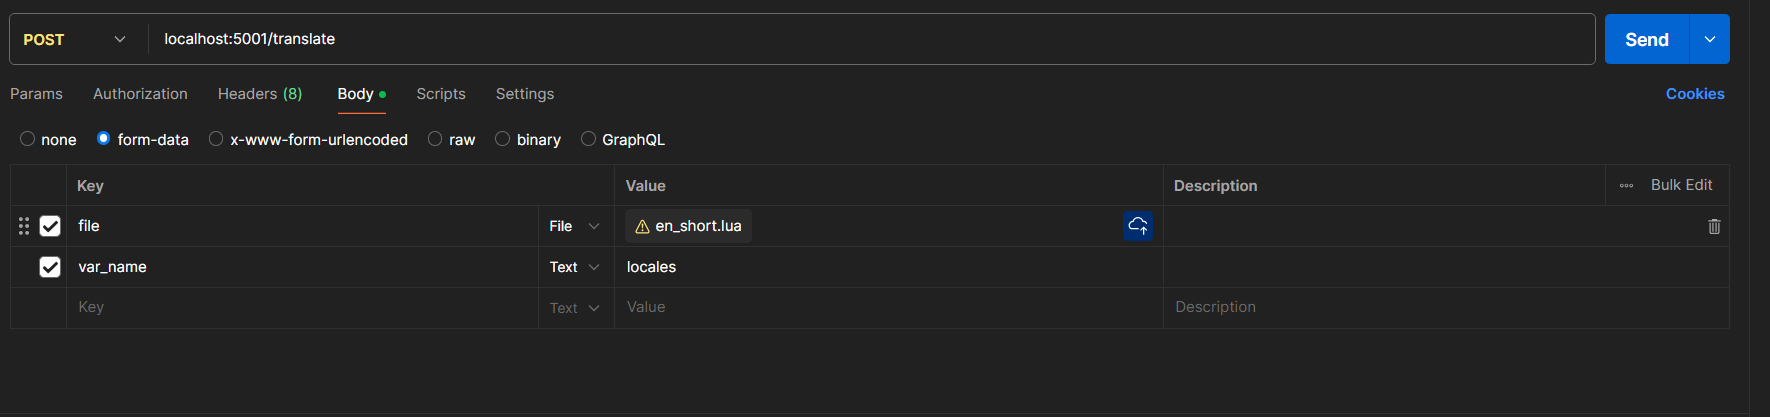
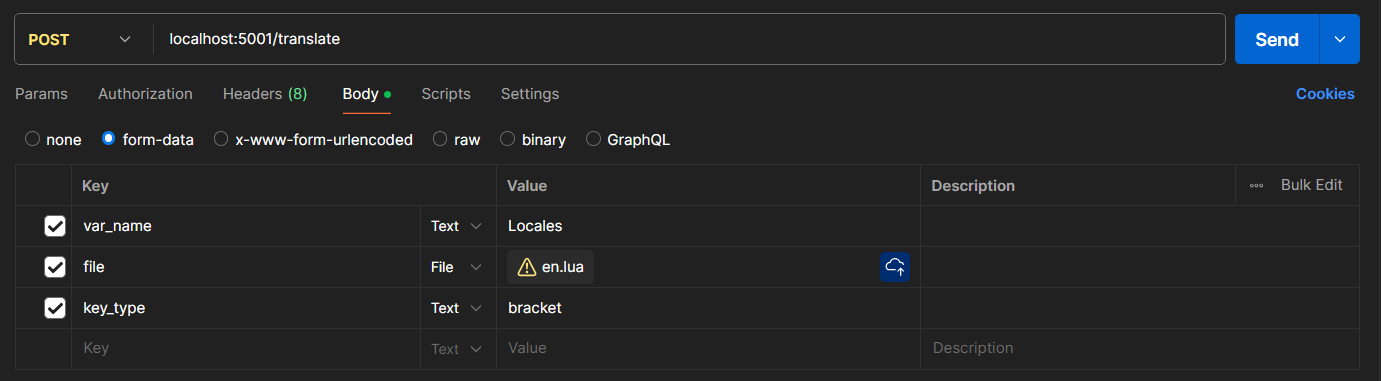
Fixed return format, missing globals

diff --git a/app/tools/lua_tools.py b/app/tools/lua_tools.py
@@ -12,7 +12,9 @@ Functions:
         Generates a Lua script defining a table from a given dictionary.
 """
 
-from lupa import LuaRuntime
+import logging
+
+from lupa import LuaRuntime, LuaError
 
 
 def extract_lua(var_name: str, lua_code: str) -> dict:
@@ -41,7 +43,23 @@ def extract_lua(var_name: str, lua_code: str) -> dict:
                 )  # Store simple values directly
         return py_dict
 
-    lua = LuaRuntime(unpack_returned_tuples=True)  # Initialize Lua runtime
+    lua = LuaRuntime(unpack_returned_tuples=True)
+
+    try:
+        lua.execute(lua_code)
+
+    except LuaError as e:
+        if "nil" in e.__str__():
+            logging.info("Fixing lua code")
+            lua_code = "{var_name} = {{}} \n".format(var_name=var_name) + lua_code
+        else:
+            logging.exception(e)
+            raise e
+    except Exception as e:
+        logging.exception(e)
+        raise e
+
+    # Initialize Lua runtime
     lua.execute(lua_code)  # Execute the Lua script
 
     global_var = lua.globals()[var_name]  # Access the Lua table
@@ -49,7 +67,7 @@ def extract_lua(var_name: str, lua_code: str) -> dict:
     return lua_to_dict(global_var)
 
 
-def generate_lua(var_name: str, kv_dict: dict) -> str:
+def generate_lua(var_name: str, kv_dict: dict, key_type: str) -> str:
     """
     Generates a Lua script defining a table from a given dictionary, handling nested dictionaries.
 
@@ -61,18 +79,28 @@ def generate_lua(var_name: str, kv_dict: dict) -> str:
         str: A formatted Lua script defining the table with the given key-value pairs.
     """
 
+    def get_key(k):
+        nonlocal key_type
+
+        if key_type == "bracket":
+            return f'["{k}"]'
+        return k
+
     def dict_to_lua(d, indent=1):
         lua_str = "{\n"
         for k, v in d.items():
             if isinstance(v, dict):
+
                 lua_str += (
-                    '{indent}"{key}" = '.format(indent="    " * indent, key=k)
+                    "{indent}{key} = ".format(indent="    " * indent, key=k)
                     + dict_to_lua(v, indent + 1)
                     + ",\n"
                 )
             else:
-                lua_str += '{indent}"{key}" = "{value}",\n'.format(
-                    indent="    " * indent, key=k, value=str(v).replace("\n", "\\n")
+                lua_str += '{indent}{key} = "{value}",\n'.format(
+                    indent="    " * indent,
+                    key=get_key(k),
+                    value=str(v).replace("\n", "\\n"),
                 )
         lua_str += "    " * (indent - 1) + "}"
         return lua_str

diff --git a/app/app.py b/app/app.py
@@ -69,6 +69,7 @@ def translate():
             response = generate_lua(
                 var_name=request.form.get("var_name"),
                 kv_dict={k: client(v, "json") for k, v in kv_dict.items()},
+                key_type=request.form.get("key_type"),
             )
 
         # Return translated file as downloadable attachment

diff --git a/README.md b/README.md
@@ -87,7 +87,12 @@ By default, the application is configured to run on port 5001. You can access it
 
 - API call (LUA):
 
-`PLEASE NOTE: You have to provide the name of the global variable containing the data in the var_name variable. `
+```
+ PLEASE NOTE:
+- You have to provide the name of the global variable containing the data in the var_name variable.
+- By default the keys will be reaturned as someKey if you want to use ["someKey"] notation add the key_type = bracket value as seen below.
+```
+
 ![./docs/globalvar.png](./docs/globalvar.png)
 
 ![./docs/apicalllua.png](./docs/apicalllua.png)

diff --git a/CHANGELOG.md b/CHANGELOG.md
@@ -1,4 +1,21 @@
-## [1.1.1] - 2025-03-07
+## [1.1.2] - 2025-03-17
+### Added
+- Support for two different key definitions in LUA tables (someKey, ["someKey"])
+
+### Changed
+- Changed the API call format
+- Updated the README
+
+### Fixed
+- Patched the bug that was introduced in the previous relase and caused the solution to return invalud LUA files.
+- Fixed the bug when the global variable is not defined in the LUA file, now it is added automatically if missing
+
+### Removed
+- 
+
+
+
+## [1.1.1] - 2025-03-17
 ### Added
 - 
 
